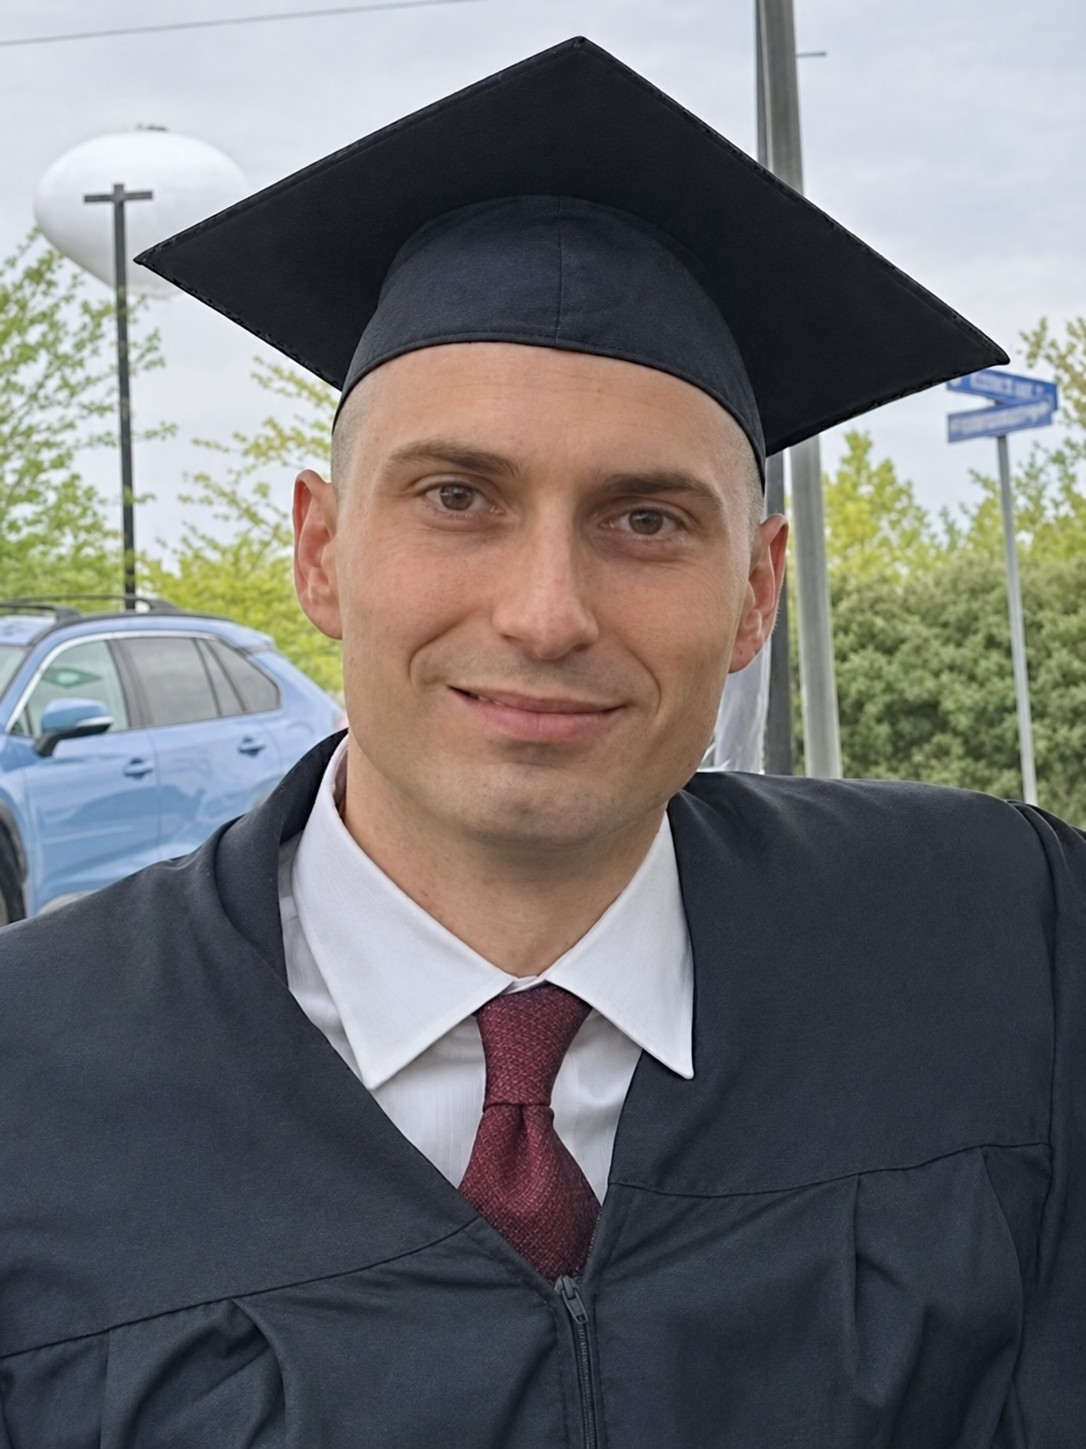
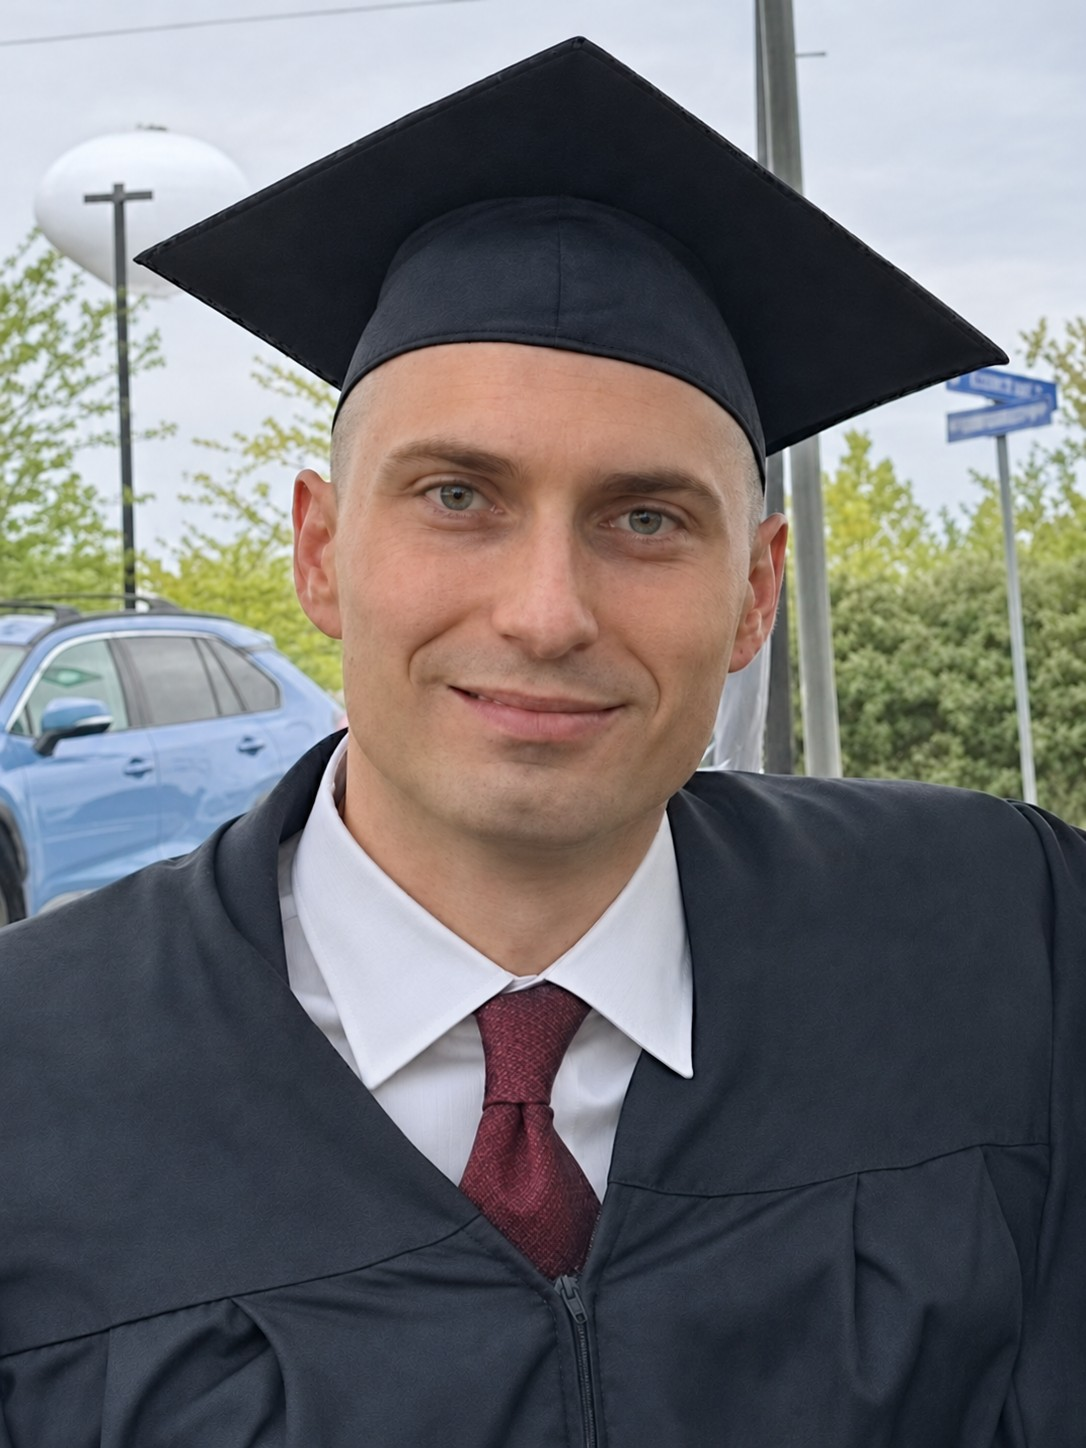
Match graduation portrait eye color to supplied references

Changed region(s): [[0.6077, 0.6215, 0.6381, 0.6837], [0.4558, 0.7148, 0.4862, 0.7459], [0.4254, 0.808, 0.4558, 0.8391]]

diff --git a/fr/education/index.html b/fr/education/index.html
@@ -121,7 +121,7 @@
             <p class="detail">Spécialisation en science des polymères. Diplômé en mai 2024, GPA 3,78&nbsp;/&nbsp;4,0. Dean’s List à tous les semestres sauf l’automne 2020.</p>
             </div>
             <figure class="graduation-photo">
-              <img src="/assets/penn-state-graduation.jpg" width="1086" height="1449" alt="Gaspar Zimbrek-Turkovic en tenue de diplômé lors de sa remise de diplôme à Penn State" loading="lazy" decoding="async">
+              <img src="/assets/penn-state-graduation.jpg" width="1086" height="1448" alt="Gaspar Zimbrek-Turkovic en tenue de diplômé lors de sa remise de diplôme à Penn State" loading="lazy" decoding="async">
             </figure>
           </div>
         </li>

diff --git a/hr/education/index.html b/hr/education/index.html
@@ -121,7 +121,7 @@
             <p class="detail">Specijalizacija iz znanosti o polimerima. Diplomirao u svibnju 2024., GPA 3,78&nbsp;/&nbsp;4,0. Na Dean’s Listu svaki semestar osim jeseni 2020.</p>
             </div>
             <figure class="graduation-photo">
-              <img src="/assets/penn-state-graduation.jpg" width="1086" height="1449" alt="Gaspar Zimbrek-Turkovic u akademskoj kapi i togi na promociji na Penn Stateu" loading="lazy" decoding="async">
+              <img src="/assets/penn-state-graduation.jpg" width="1086" height="1448" alt="Gaspar Zimbrek-Turkovic u akademskoj kapi i togi na promociji na Penn Stateu" loading="lazy" decoding="async">
             </figure>
           </div>
         </li>

diff --git a/education/index.html b/education/index.html
@@ -121,7 +121,7 @@
             <p class="detail">Specialized in polymer science. Graduated May 2024, GPA 3.78&nbsp;/&nbsp;4.0. Dean’s List every semester except Fall 2020.</p>
             </div>
             <figure class="graduation-photo">
-              <img src="/assets/penn-state-graduation.jpg" width="1086" height="1449" alt="Gaspar Zimbrek-Turkovic in cap and gown at his Penn State graduation" loading="lazy" decoding="async">
+              <img src="/assets/penn-state-graduation.jpg" width="1086" height="1448" alt="Gaspar Zimbrek-Turkovic in cap and gown at his Penn State graduation" loading="lazy" decoding="async">
             </figure>
           </div>
         </li>
